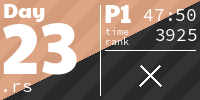
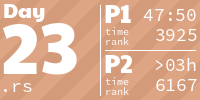
day23: part 2 - bron kerbosch solution

diff --git a/src/day23.rs b/src/day23.rs
@@ -1,13 +1,7 @@
-use std::{
-    collections::VecDeque,
-    fmt::{Debug, Display},
-};
-
 use aoc_runner_derive::aoc;
-use indicatif::{ParallelProgressIterator, ProgressBar, ProgressIterator};
 use itertools::Itertools;
-use rayon::iter::{IntoParallelRefIterator, ParallelIterator};
 use rustc_hash::{FxHashMap, FxHashSet};
+use std::fmt::{Debug, Display};
 
 #[derive(Copy, Clone, Ord, PartialOrd, Eq, PartialEq, Hash)]
 struct Node([char; 2]);
@@ -62,43 +56,37 @@ impl Network {
         }
         sets
     }
-    fn node_groups(&self, n: &Node, adjacent_set: FxHashSet<Node>) -> Option<FxHashSet<Node>> {
-        // println!("{:?} {:?}", n, adjacent_set);
-        let neigh = FxHashSet::from_iter(self.edges.get(n).unwrap().iter().map(|n| *n));
-        let intersection = FxHashSet::from_iter(adjacent_set.intersection(&neigh).map(|n| *n));
-        if intersection != adjacent_set {
-            return Some(adjacent_set);
+    fn bron_kerbosch(
+        &self,
+        r: FxHashSet<Node>,
+        mut p: FxHashSet<Node>,
+        mut x: FxHashSet<Node>,
+    ) -> Vec<FxHashSet<Node>> {
+        let mut results = Vec::new();
+        if p.is_empty() && x.is_empty() {
+            return vec![r];
         }
-        let mut next_adj_set = adjacent_set.clone();
-        next_adj_set.insert(*n);
-        neigh
-            .iter()
-            .filter(|neigh_n| !next_adj_set.contains(neigh_n))
-            .filter_map(|neigh_n| self.node_groups(neigh_n, next_adj_set.clone()))
-            .max_by(|a, b| a.len().cmp(&b.len()))
-    }
-    fn born_kerbosch(&self, r: FxHashSet<Node>, mut p: FxHashSet<Node>, mut x: FxHashSet<Node>) -> FxHashSet<Node> {
-        if p.is_empty() && r.is_empty() {
-            return r;
-        }
-        let p_iter = p.clone(); // se we can modify p
+        let p_iter = p.clone(); // so we can modify p
         for node in &p_iter {
             let mut new_r = r.clone();
             new_r.insert(*node);
-            let new_p = FxHashSet::from_iter(
-                p.intersection(&FxHashSet::from_iter(self.edges.get(&node).unwrap().iter().map(|n| *n)))
-                    .map(|n| *n),
-            );
-            let new_x = FxHashSet::from_iter(
-                x.intersection(&FxHashSet::from_iter(self.edges.get(&node).unwrap().iter().map(|n| *n)))
-                    .map(|n| *n),
-            );
 
-            self.born_kerbosch(new_r, new_p, new_x);
+            let neighbours = FxHashSet::from_iter(self.edges.get(&node).unwrap().iter().map(|n| *n));
+            let new_p = FxHashSet::from_iter(p.intersection(&neighbours).map(|n| *n));
+            let new_x = FxHashSet::from_iter(x.intersection(&neighbours).map(|n| *n));
+
+            results.extend(self.bron_kerbosch(new_r, new_p, new_x).into_iter());
             p.remove(&node);
             x.insert(*node);
         }
-        r
+        results
+    }
+    fn maximal_subgraphs(&self) -> Vec<FxHashSet<Node>> {
+        self.bron_kerbosch(
+            FxHashSet::default(),
+            FxHashSet::from_iter(self.nodes.iter().map(|n| *n)),
+            FxHashSet::default(),
+        )
     }
 }
 
@@ -143,26 +131,12 @@ pub fn part1(input: &str) -> i64 {
 #[aoc(day23, part2)]
 pub fn part2(input: &str) -> String {
     let network = parse(input);
-    let mut best = FxHashSet::default();
-    let mut node_queue = network.nodes.clone();
-    let progress = ProgressBar::new(network.nodes.len() as u64);
-    while let Some(node) = node_queue.pop() {
-        progress.inc(1);
-        let net = network.node_groups(&node, FxHashSet::default()).unwrap();
-        println!("NODE {} best: {:?}", node, net);
-        for checked in &net {
-            if let Some(idx) = node_queue.iter().position(|to_remove| to_remove == checked) {
-                node_queue.remove(idx);
-                progress.inc(1);
-            }
-        }
-        if net.len() > best.len() {
-            best = net;
-        }
-    }
-    // println!("{:?}", network.node_groups(&Node(['k', 'a']), FxHashSet::default()));
-    println!("best: {:?}", best);
-    String::new()
+    let best_sets = network.maximal_subgraphs();
+    let largest_set = best_sets.iter().max_by(|a, b| a.len().cmp(&b.len())).unwrap();
+    let mut largest = largest_set.iter().collect_vec();
+    largest.sort();
+    println!("best: {:?}", largest);
+    largest.iter().join(",")
 }
 
 #[cfg(test)]

diff --git a/README.md b/README.md
@@ -1,6 +1,6 @@
 <!-- AOC TILES BEGIN -->
 <h1 align="center">
-  2024 - 44 ⭐ - Rust
+  2024 - 45 ⭐ - Rust
 </h1>
 <a href="src/day1.rs">
   <img src=".aoc_tiles/tiles/2024/01.png" width="161px">
